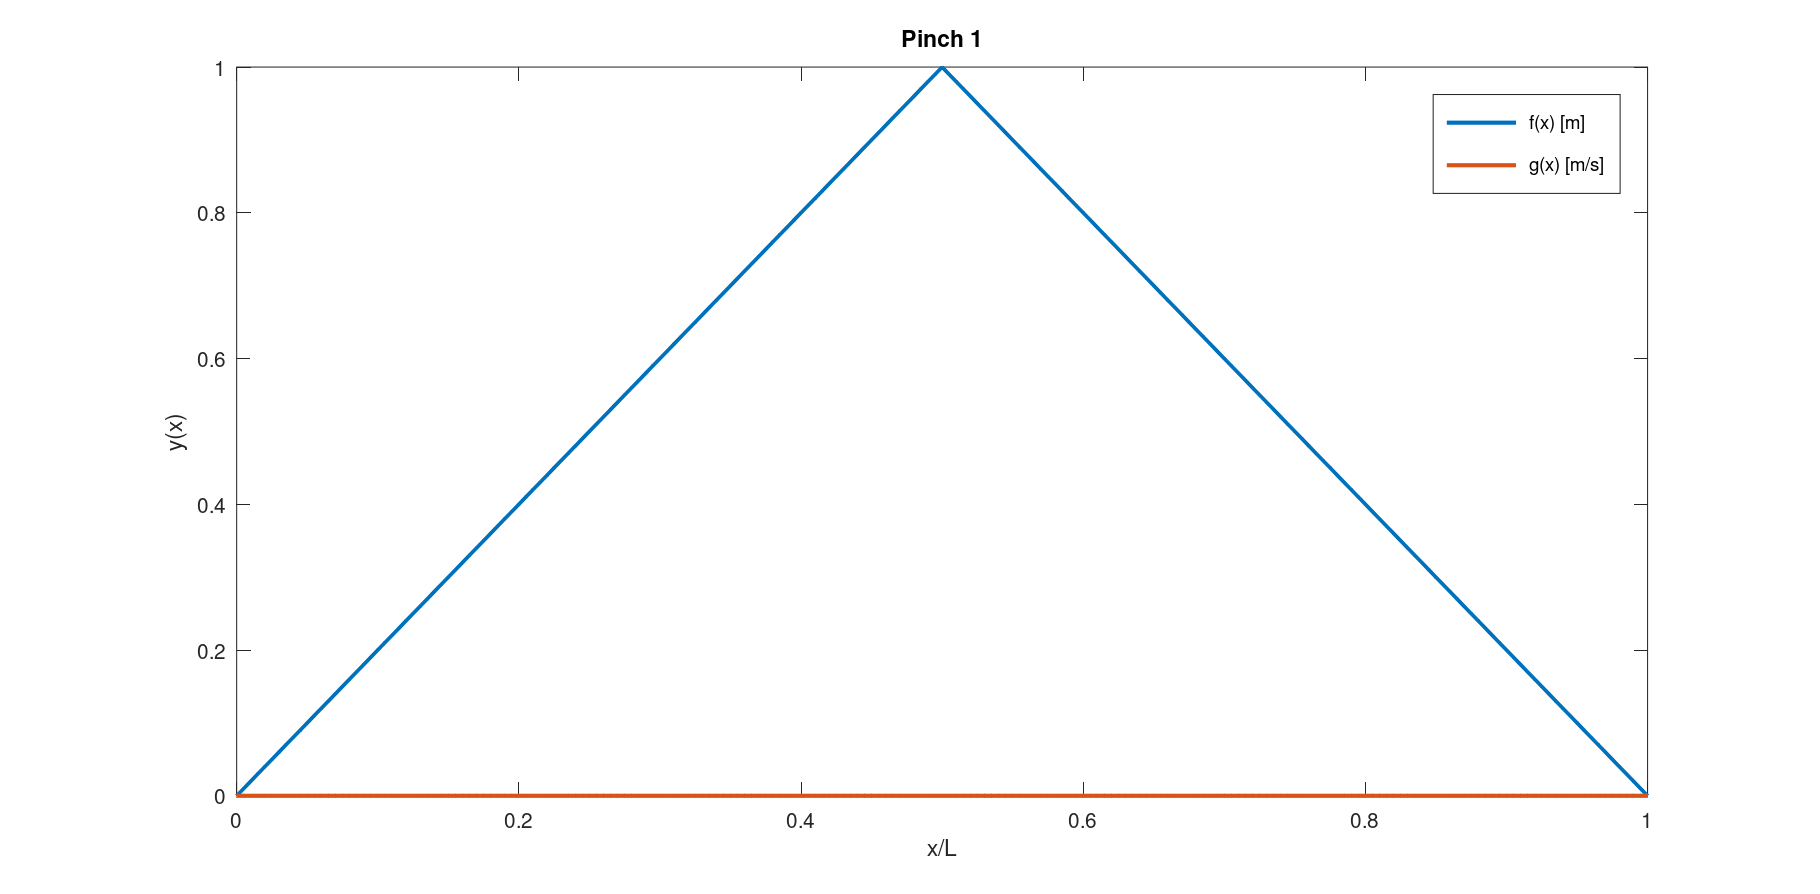
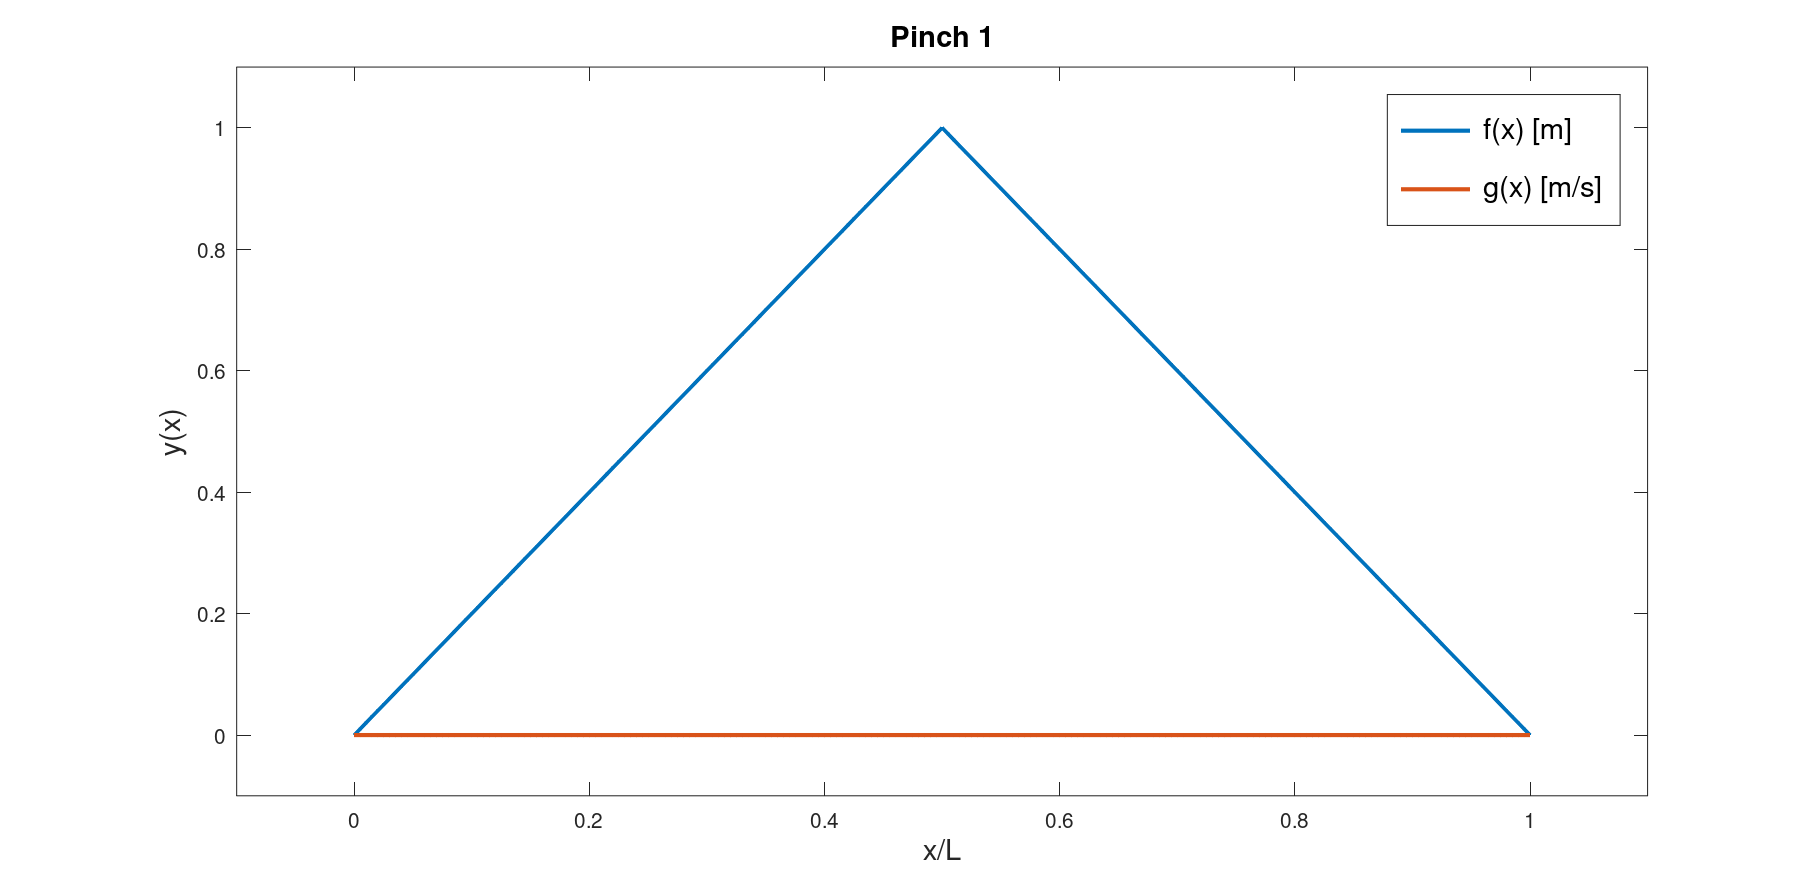
final plots

diff --git a/HW1/HW1.m b/HW1/HW1.m
@@ -12,11 +12,11 @@ close all   % Close all variables
 clc         % Clear command window
 
 % Plot commands
-graph_pinch = 'no';             % Plot initial conditions of f and g
-graph_eigenfunctions = 'no';    % Plot the eigenfunctions
-graph_f_approx = 'no';          % Plot the comparison of f and approx f
-graph_time = 'no';              % Plot the evolution of the wave
-graph_movie = 'no';             % Plot the movie of the wave evolution
+graph_pinch = 'no';            % Plot initial conditions of f and g
+graph_eigenfunctions = 'no';   % Plot the eigenfunctions
+graph_f_approx = 'no';         % Plot the comparison of f and approx f
+graph_time = 'yes';             % Plot the evolution of the wave
+graph_movie = 'no';            % Plot the movie of the wave evolution
 
 % Pinch commands
 minpinch = 1;                   % Minimum number of pinches
@@ -28,7 +28,7 @@ L = 0.328           % String length [m]
 mu = 0.660E-3       % String mass per unit length (mu = M / L) [kg/m]
 F = 55.0            % Tension force [N]
 cc = sqrt(F/mu)     % Speed of wave propagation [m/s] (eq. 2.48)
-nmax = 10           % Maximum number of modes (to be adjusted for the good convergence of the approximation)
+nmax = 20           % Maximum number of modes (to be adjusted for the good convergence of the approximation)
 npt = 201           % Number of sampling points used in the approximation
 nst = 13            % Number of sample times
 % movie=200           % Number of frames for movie development phase
@@ -93,10 +93,12 @@ if (strcmp(graph_pinch, 'yes') == 1);
         hold on
         p1 = plot(x/L, g(pinch, :), ";g(x) [m/s];", 'LineWidth', 2);
         hold off
-        xlabel('x/L');
-        ylabel('y(x)');
-        title(strjoin({'Pinch', num2str(pinch)}, ' '));
-        legend("location", "northeast");
+        xlim([-(xmax / L) * 0.1, (xmax / L) * 1.1]);
+        ylim([min(f(pinch,:)) - 0.1, max(f(pinch,:)) + 0.1]);
+        xlabel('x/L', 'FontSize', 14);
+        ylabel('y(x)', 'FontSize', 14);
+        title(strjoin({'Pinch', num2str(pinch)}, ' '), 'FontSize', 14);
+        legend("location", "northeast", 'FontSize', 14);
         waitfor(p1)   % Stops the code execution until you close the plot
     end
 end
@@ -111,15 +113,15 @@ end
 % GRAPH OF EIGENFUNCTIONS
 if (strcmp(graph_eigenfunctions, 'yes') == 1);
     for n = 1:nmax
-        p2 = plot(x/L, phi(n, :), strjoin({';Mode ', num2str(n), ';'}, ''), 'LineWidth', 1);
+        p2 = plot(x/L, phi(n, :), 'LineWidth', 1);      % For eigenfunctions labeling include strjoin({';Mode ', num2str(n), ';'}, ''),
         hold on;
     end
-    xlim([xmin/L,xmax/L]);
-    ylim([-sqrt(2/L),sqrt(2/L)]);
-    xlabel('x/L');
-    ylabel('{\Phi(x)}');
-    title('Eigenfunctions');
-    legend("location", "northeastoutside");
+    xlim([-(xmax / L) * 0.1, (xmax / L) * 1.1]);
+    ylim([-sqrt(2/L) * 1.1,sqrt(2/L) * 1.1]);
+    xlabel('x/L', 'FontSize', 14);
+    ylabel('{\Phi(x)} [m]', 'FontSize', 14);
+    title('Eigenfunctions', 'FontSize', 14);
+    % legend("location", "northeastoutside", 'FontSize', 12);   % too many eigenfunctions, they are not labeled
     hold off;
     waitfor(p2)   % Stops the code execution until you close the plot
 end
@@ -141,21 +143,24 @@ fprintf('\nEigenvalues\n');
 fprintf('   n        kk(n)[1/m]      OO_n[Hz]        nu_n[Hz]         T_n[s]\n');
 for n = 1:nmax
     % Remember that experimental input data is limited to
-    fprintf('%4d %#15.3G %#15.3G %#15.3G %#15.3G\n', n, kk(n), OO(n), OO(n)/(2*pi), 2*pi/OO(n));
-    a(n, 1) = n;
-    a(n, 2) = kk(n);
-    a(n, 3) = OO(n);
-    a(n, 4) = OO(n)/(2*pi);
-    a(n, 5) = 2*pi/OO(n);
+    % fprintf('%4d %#15.3G %#15.3G %#15.3G %#15.3G\n', n, kk(n), OO(n), OO(n)/(2*pi), 2*pi/OO(n));
+    a1(n, 1) = n;
+    a1(n, 2) = kk(n);
+    a1(n, 3) = OO(n);
+    a1(n, 4) = OO(n)/(2*pi);
+    a1(n, 5) = 2*pi/OO(n);
 end
-printtable(a, 'LaTex',true);
+printtable(a1, 'LaTex', true);
 
 % 6. TEST ORTHONORMALIZATION OF EIGENFUNCTIONS
 fprintf('\nOrthonormalization test\n');
 fprintf('   n     <phi_n|phi_n>\n');
 for (n=1:nmax)
-    fprintf('%4d %#15.6G\n', n, trapz(x, phi(n, :) .* phi(n, :)));
+    % fprintf('%4d %#15.6G\n', n, trapz(x, phi(n, :) .* phi(n, :)));
+    a2(n, 1) = n;
+    a2(n, 2) = trapz(x, phi(n, :) .* phi(n, :));
 end
+printtable(a2, 'LaTex', true);
 
 % 7. OVERLAP INTEGRALS BETWEEN INITIAL CONDITIONS AND THE EIGENFUNCTIONS FOR THE VARIOUS PINCH TYPES
 pinch = 2  % Pinch type 2 (eq. 2.45), according to the task
@@ -163,39 +168,43 @@ pinch = 2  % Pinch type 2 (eq. 2.45), according to the task
 fprintf('\nOverlap integrals\n');
 fprintf('   n     <phi_n|f>          <phi_n|g>\n');
 for (n=1:nmax)
-    fprintf('%4d %#15.6G %#15.6G\n', n, trapz(x, f(pinch, :) .* phi(n, :)), trapz(x, g(pinch, :) .* phi(n, :))); % Overlap integrals (eq. 2.38)
+    % fprintf('%4d %#15.6G %#15.6G\n', n, trapz(x, f(pinch, :) .* phi(n, :)), trapz(x, g(pinch, :) .* phi(n, :))); % Overlap integrals (eq. 2.38)
+    a3(n, 1) = n;
+    a3(n, 2) = trapz(x, f(pinch, :) .* phi(n, :));
+    a3(n, 3) = trapz(x, g(pinch, :) .* phi(n, :));
 end
+printtable(a3, 'LaTex', true);
 
 % 8. COMPARISON OF F AND APPROX F
-
 % Variable declaration
 f_approx = 0;
 g_approx = 0;
 
 if (strcmp(graph_f_approx,'yes') == 1);
-    p3 = plot(x, f(pinch, :), ';f(x) [m];', 'LineWidth', 0.5);
+    p3 = plot(x / L, f(pinch, :), ';f(x) [m];', 'LineWidth', 0.5);
     hold on;
     for n=1:nmax
       f_approx = f_approx + trapz(x, f(pinch, :) .* phi(n,:)) * phi(n,:);
     end
-    p3 = plot(x, f_approx, ';f{_{approx}}(x) [m];', 'LineWidth', 0.5, 'LineStyle', '--');
+    p3 = plot(x / L, f_approx, ';f{_{approx}}(x) [m];', 'LineWidth', 0.5, 'LineStyle', '--');
 
-    p3 = plot(x, g(pinch, :), ';g(x) [m/s];', 'LineWidth', 0.5);
+    p3 = plot(x / L, g(pinch, :), ';g(x) [m/s];', 'LineWidth', 0.5);
     for n=1:nmax
       g_approx = g_approx + trapz(x, g(pinch, :) .* phi(n,:)) * phi(n,:);
     end
-    p3 = plot(x,g_approx, ';g{_{approx}}(x) [m/s];', 'LineWidth', 0.5, 'LineStyle', '--');
+    p3 = plot(x / L, g_approx, ';g{_{approx}}(x) [m/s];', 'LineWidth', 0.5, 'LineStyle', '--');
 
-    xlabel('x');
-    ylabel('y(x)');
-    title('Comparison of initial conditions and approximations');
-    legend("location", "northeastoutside");
+    xlim([-(xmax / L) * 0.1, (xmax / L) * 1.1]);
+    ylim([-1.1, 1.1]);
+    xlabel('x/L', 'FontSize', 14);
+    ylabel('y(x)', 'FontSize', 14);
+    title('Comparison of initial conditions and approximations', 'FontSize', 14);
+    legend("location", "northeast", 'FontSize', 14);
     hold off;
     waitfor(p3)   % Stops the code execution until you close the plot
 end
 
 % 9. Numerical array of the spatial discretization of phi and successive amplitude paterns
-
 % Overlap integrals between initial conditions and the eigenfunctions
 for n = 1:nmax
     phi_f(n) = trapz(x, f(pinch, :) .* phi(n,:));
@@ -219,18 +228,18 @@ if (strcmp(graph_time,'yes') == 1);
         p4 = plot(x/L, psi_plot(:, i), strjoin({';t=', num2str(tt(i)), 's;'}, ' '), 'LineWidth', 0.7);
         hold on;
     end
-    xlabel('x/L');
-    ylabel('{\psi}(x, t)');
-    title('Wave evolution frames');
-    legend("location", "northeastoutside");
+    xlim([-(xmax / L) * 0.1, (xmax / L) * 1.1]);
+    ylim([-1.1, 1.1]);
+    xlabel('x/L', 'FontSize', 14);
+    ylabel('{\psi}(x, t) [m]', 'FontSize', 14);
+    title('Wave evolution frames', 'FontSize', 14);
+    legend("location", "northeastoutside", 'FontSize', 14);
     hold off;
-    waitfor(p4)   % Stops the code execution until you close the plot
+    waitfor(p4)     % Stops the code execution until you close the plot
 end
 
-
-
-
 % 10. MOVIE
+nmax = 10       % Maximum number of modes (to be adjusted for the sake of the movie)
 if (strcmp(graph_movie,'yes') == 1);
     shortest_period = (2 * pi) / max(OO)    % Determine the shortest period
     movie = round((tmax / shortest_period) * 10)    % Number of frames for movie, 10 frames per shortest period
@@ -251,17 +260,17 @@ if (strcmp(graph_movie,'yes') == 1);
 
     g5 = plot(normx, psi, 'XDataSource', 'normx', 'YDataSource', 'psi', 'linestyle', '-', 'linewidth', 2);
 
-    xlim([xmin/L,xmax/L]);
-    ylim([-sqrt(2/L), sqrt(2/L)]);
+    xlim([-(xmax / L) * 0.1, (xmax / L) * 1.1]);
+    ylim([-1.1, 1.1]);
     line([xmin/L,xmax/L], [0, 0], 'linestyle', '-', 'linewidth', 1, 'color', [0.5, 0.5, 0.5]);
-    xlabel ('x/L');
-    ylabel ('{\psi}(x, t)');
-    title ('Wave evolution movie');
+    xlabel ('x/L', 'FontSize', 14);
+    ylabel ('{\psi}(x, t) [m]', 'FontSize', 14);
+    title ('Wave evolution movie', 'FontSize', 14);
 
     % Loop on frames
 
     for i = 1:movie
-        pause(0);           % Wait for a key press
+        pause(0);
         for j = 1:npt
             psi(j) = 0;
             for n = 1:nmax
